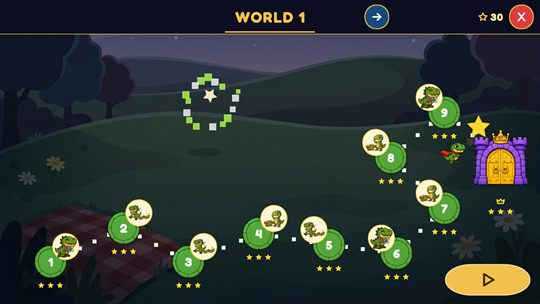
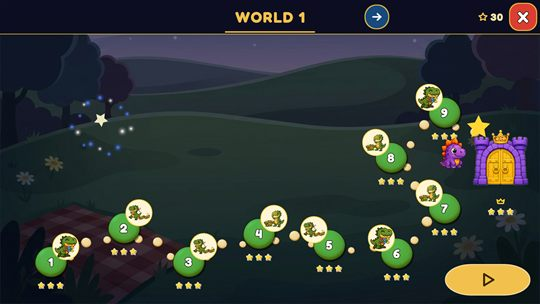
fix: bring the Poison Hotdogs site up to the real mode roster and fresh captures
The Home page still advertised "Four ways to play" with Story Mode and
Freestyle, no Rotten Rescue anywhere, and a screenshot strip cut from the
2026-08-03 QA sweep (pre-rename, pre-condiments).

Mode roster, established from the game repo (GameModeCatalog.cs +
ModeSelectView on main @ 943031c) and confirmed against the brain's
Story-Mode-Concept note: Rotten Rescue, Snack Attack, ABC's, 123's on the
Pick a Game grid, plus Practice on its own strip. "Story Mode" and
"Freestyle" were display-renamed on 2026-08-10; the ids never changed.

- poison-hotdogs/index.html: "Four ways to play" -> "Pick a game" with the
  five real entries and honest one-liners; screenshot strip replaced with
  eight frames from the 2026-09-07 QA sweep (Rotten Rescue condiment play,
  the renamed Pick a Game screen, the rescue beat); the provenance line now
  says what the frames are (real captures of the game running, not mockups)
  instead of claiming a phone-build capture, which neither set ever was.
- gr0ss-tech/games.html + index.html: same roster and wording.
- processArt.ps1 / build.mjs / README.md: new shot names and where each
  frame came from.

The privacy policy and its [CONFIRM ...] placeholders are untouched.

diff --git a/poison-hotdogs/index.html b/poison-hotdogs/index.html
@@ -87,36 +87,58 @@
         <div class="shots">
           <figure class="shot">
             <img
-              src="assets/img/shot-02-dodge-the-hotdogs.jpg"
+              src="assets/img/shot-03-rotten-rescue-condiments.jpg"
               width="540"
               height="304"
               loading="lazy"
               decoding="async"
-              alt="Rexy in a red cape runs through a moonlit swamp while green poison hotdogs drift down toward him."
+              alt="Rotten Rescue: Stego stands in a moonlit swamp while a ketchup bottle, a mustard bottle and a blue potion float past. Two green poison hotdogs drift in from the right and a counter at the top reads 0 of 10."
             />
-            <figcaption>Dodge the green ones</figcaption>
+            <figcaption>Grab the clean condiments, skip the gooped ones</figcaption>
           </figure>
           <figure class="shot">
             <img
-              src="assets/img/shot-04-abc-gameplay.jpg"
+              src="assets/img/shot-02-pick-a-game.jpg"
               width="540"
               height="304"
               loading="lazy"
               decoding="async"
-              alt="ABC mode: a banner reads GET L while lettered bubbles float across the swamp."
+              alt="The Pick a Game screen: four painted cards labelled Rotten Rescue, Snack Attack, ABC's and 123's, with a Practice bar underneath."
             />
-            <figcaption>Catch the letter the sign asks for</figcaption>
+            <figcaption>Pick a game</figcaption>
           </figure>
           <figure class="shot">
             <img
-              src="assets/img/shot-05-123-boss-gameplay.jpg"
+              src="assets/img/shot-04-boss-sneeze-machine.jpg"
               width="540"
               height="304"
               loading="lazy"
               decoding="async"
-              alt="A boss built out of poison hotdogs sneezes AHHH CHOOO above Rexy while numbered bubbles float past."
+              alt="A boss built from poison hotdogs sneezes AHHH CHOOO above Stego while numbered bubbles float past and a sign reads GET 4."
             />
             <figcaption>Every world ends in a goofy showdown</figcaption>
+          </figure>
+          <figure class="shot">
+            <img
+              src="assets/img/shot-05-abc-gameplay.jpg"
+              width="540"
+              height="304"
+              loading="lazy"
+              decoding="async"
+              alt="ABC's: a sign reads GET L while lettered bubbles for K, L and M float across the swamp around Stego."
+            />
+            <figcaption>ABC's: catch the letter on the sign</figcaption>
+          </figure>
+          <figure class="shot">
+            <img
+              src="assets/img/shot-07-rescued-buddy.jpg"
+              width="540"
+              height="304"
+              loading="lazy"
+              decoding="async"
+              alt="A popup reading RESCUED! with Stego the purple dinosaur in the middle and confetti falling around him."
+            />
+            <figcaption>Beat the boss, free a buddy</figcaption>
           </figure>
           <figure class="shot">
             <img
@@ -125,24 +147,13 @@
               height="304"
               loading="lazy"
               decoding="async"
-              alt="The World 1 map: nine numbered stepping stones across a green hillside, each showing earned stars, leading to a purple castle door."
+              alt="The World 1 map: nine numbered stepping stones across a green hillside, each with three stars, leading Stego to a purple castle door."
             />
             <figcaption>Earn stars on every stone</figcaption>
           </figure>
           <figure class="shot">
             <img
-              src="assets/img/shot-03-pick-a-game.jpg"
-              width="540"
-              height="304"
-              loading="lazy"
-              decoding="async"
-              alt="The Pick a Game screen: painted cards for Freestyle, ABC's, 123's and Story Mode, with a Practice bar underneath."
-            />
-            <figcaption>Four ways to play</figcaption>
-          </figure>
-          <figure class="shot">
-            <img
-              src="assets/img/shot-07-daily-treat.jpg"
+              src="assets/img/shot-08-daily-treat.jpg"
               width="540"
               height="304"
               loading="lazy"
@@ -153,41 +164,35 @@
           </figure>
           <figure class="shot">
             <img
-              src="assets/img/shot-08-main-menu.jpg"
-              width="540"
-              height="304"
-              loading="lazy"
-              decoding="async"
-              alt="The main menu: the dripping Poison Hotdogs logo above big Play and High Scores buttons."
-            />
-            <figcaption>A menu a six-year-old can read</figcaption>
-          </figure>
-          <figure class="shot">
-            <img
               src="assets/img/shot-01-title-splash.jpg"
               width="540"
               height="304"
               loading="lazy"
               decoding="async"
-              alt="The title screen: Rexy stands in a slime-covered village under the Stay Away From Poison Hotdogs logo, with Tap To Start below."
+              alt="The title screen: Rexy stands in a slime-covered village under the Stay Away From Poison Hotdogs logo, his rescued buddies beside him and the ones still missing shown as shadows, with Tap To Start below."
             />
             <figcaption>Tap to start</figcaption>
           </figure>
         </div>
         <p style="color: var(--textMuted); margin-top: 1rem">
-          Real captures from the phone build. Nothing here is a mockup.
+          Real captures of the game running, taken September 2026. Nothing here is a mockup.
         </p>
       </div>
     </section>
 
     <section class="section">
       <div class="wrap">
-        <h2>Four ways to play</h2>
+        <h2>Pick a game</h2>
         <ul class="modes">
-          <li><b>Story Mode</b> Ten painted worlds, one goofy hotdog boss each.</li>
+          <li>
+            <b>Rotten Rescue</b> Baron Bratwurst gooped everything and took Rexy's buddies. Grab
+            the clean condiments, skip the gooped ones, and beat the boss at the end of each of
+            ten painted worlds to free a friend.
+          </li>
+          <li><b>Snack Attack</b> Endless hotdog chaos. No finish line. How long can you last?</li>
           <li><b>ABC's</b> Catch the alphabet from A all the way to Z.</li>
           <li><b>123's</b> Count and catch, 1 to 99.</li>
-          <li><b>Freestyle</b> No rules, no finish line. How long can you last?</li>
+          <li><b>Practice</b> Any game, no clock, no losing. Learn it first, then play for real.</li>
         </ul>
       </div>
     </section>
@@ -210,7 +215,7 @@
               <li>Big, friendly touch targets</li>
               <li>Icons and audio lead the way &mdash; reading stays light</li>
               <li>Silly, never scary</li>
-              <li>Stars, stickers, daily treats and dinosaur friends to unlock</li>
+              <li>Stars, stickers, daily treats and dinosaur buddies to rescue and play as</li>
             </ul>
           </article>
         </div>

diff --git a/gr0ss-tech/games.html b/gr0ss-tech/games.html
@@ -60,15 +60,20 @@
               Stay Away From Poison Hotdogs <span class="tag tag--soon">In launch prep</span>
             </h2>
             <p>
-              A catch-and-dodge learning game for kids around 6&ndash;8. Rexy the T-Rex runs
-              through ten painted worlds collecting the letter or number the sign asks for, while
-              slime-covered hotdogs try very hard to be eaten. They should not be eaten.
+              A catch-and-dodge learning game for kids around 6&ndash;8. Rexy the T-Rex and his
+              buddies run through ten painted worlds grabbing whatever the round asks for &mdash;
+              a letter, a number, a clean condiment &mdash; while slime-covered hotdogs try very
+              hard to be eaten. They should not be eaten.
             </p>
             <ul>
-              <li><strong>Story Mode</strong> &mdash; ten worlds, one goofy hotdog boss each</li>
+              <li>
+                <strong>Rotten Rescue</strong> &mdash; ten gooped worlds, a goofy boss at the end
+                of each, and a kidnapped buddy to free
+              </li>
+              <li><strong>Snack Attack</strong> &mdash; endless. How long can you last?</li>
               <li><strong>ABC's</strong> &mdash; catch the alphabet, A to Z</li>
               <li><strong>123's</strong> &mdash; count and catch, 1 to 99</li>
-              <li><strong>Freestyle</strong> &mdash; how long can you last?</li>
+              <li><strong>Practice</strong> &mdash; any game with no clock and no losing</li>
             </ul>
             <p>
               Big touch targets, icons and audio over reading, gentle early levels and a real

diff --git a/gr0ss-tech/index.html b/gr0ss-tech/index.html
@@ -119,7 +119,7 @@
             <h3>Stay Away From Poison Hotdogs <span class="tag tag--soon">Coming soon</span></h3>
             <p>
               Rexy the T-Rex is hungry for letters and numbers. The poison hotdogs have other
-              plans. Ten painted worlds, four ways to play, and one rule that matters:
+              plans. Ten painted worlds, four games in one, and one rule that matters:
               <strong>don't eat the green ones.</strong>
             </p>
             <p>
